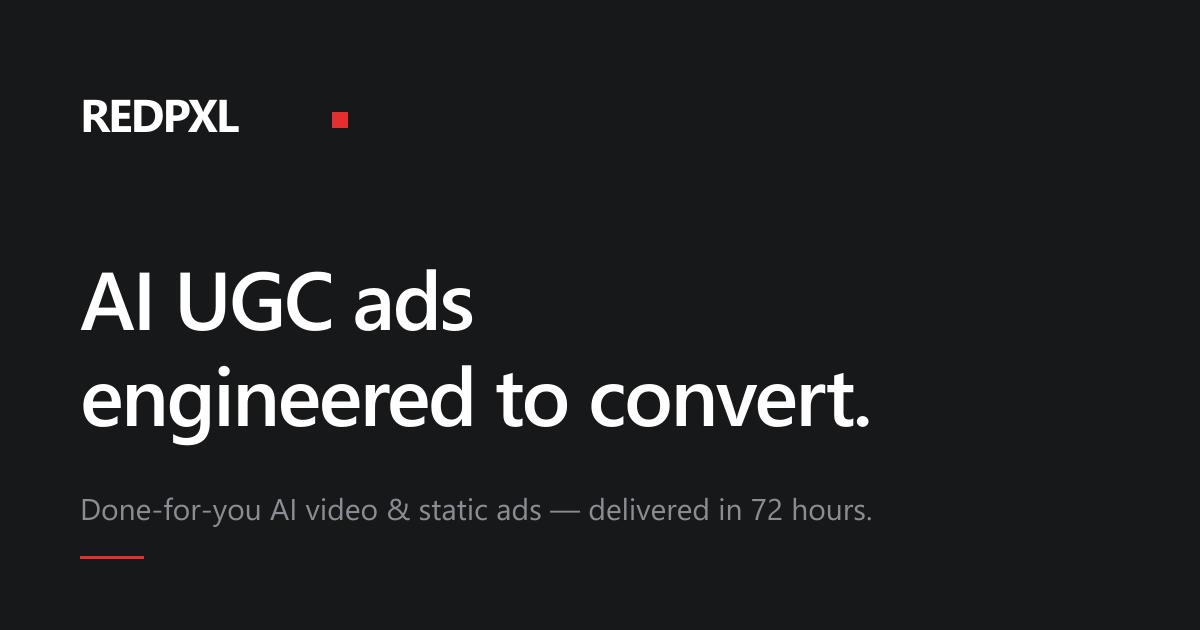
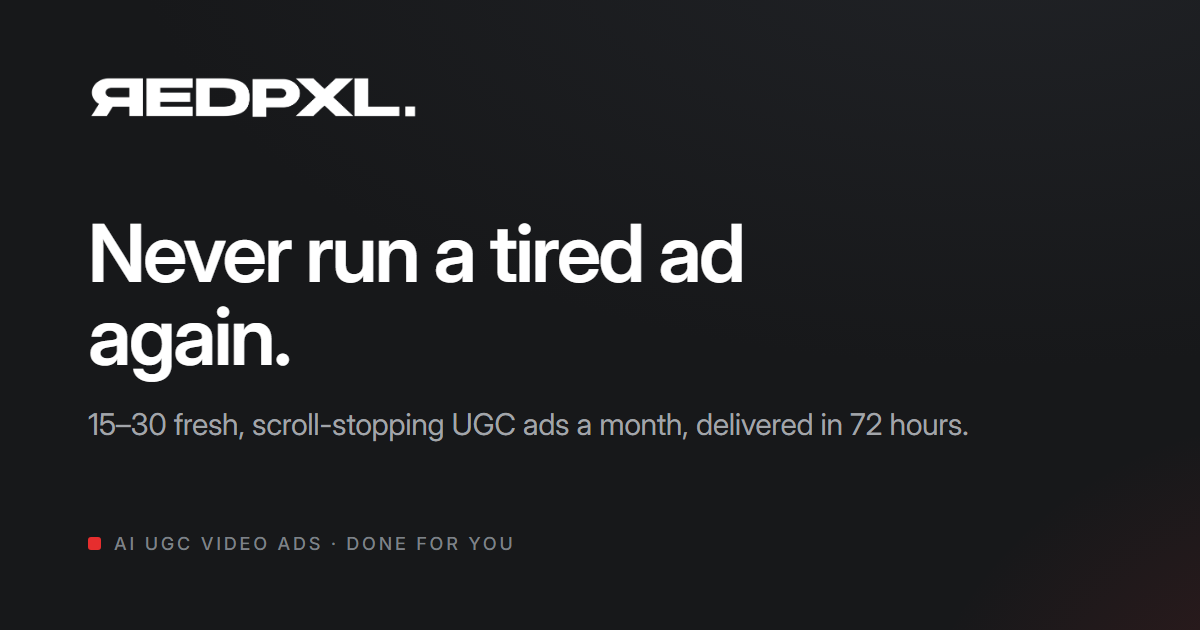
Fix OG/social share image — designed 1200×630, current copy, correct metadata
Replaced the old cropped-screenshot og.png (wrong 'engineered to convert'
headline) with a designed 1200×630 card: dark --ink, real REDPXL wordmark
(white), current hero headline 'Never run a tired ad again.', supporting line
'15–30 fresh, scroll-stopping UGC ads a month, delivered in 72 hours.', and a red
brand accent — big, clean, readable shrunk to a chat thumbnail. Generated with
headless Chromium from a self-contained HTML template (scripts/make-og.mjs, kept
so it can be regenerated) so the real Inter + logo render pixel-perfect.

Metadata (app/layout.tsx): title + og:title + twitter:title → 'REDPXL UGC — AI
UGC ads that convert'; description/og/twitter → the current 72-hours line;
og:site_name → REDPXL; og:image → /og.png?v=2 (1200×630 + alt), removed the old
'engineered to convert' alt. Favicon already set via app/icon.png +
app/apple-icon.png.

NOTE: WhatsApp/iMessage/Slack/FB cache OG images hard. New shares get the new
card (the ?v=2 URL is uncached); already-shared links may show the old preview
until their cache expires — force it via the platform debugger (e.g. Facebook
Sharing Debugger 'Scrape Again') or a fresh ?v=N.

Changed region(s): [[0.0617, 0.3619, 0.8017, 0.7238], [0.0617, 0.7841, 0.7092, 0.9048], [0.0617, 0.1206, 0.37, 0.2111]]

diff --git a/app/layout.tsx b/app/layout.tsx
@@ -19,9 +19,9 @@ const SITE_URL = "https://redpxl.uk";
 
 export const metadata: Metadata = {
   metadataBase: new URL(SITE_URL),
-  title: "REDPXL UGC — AI UGC Video Ads That Convert",
+  title: "REDPXL UGC — AI UGC ads that convert",
   description:
-    "Done-for-you, hyper-realistic AI UGC video and static ads. Scripted with proven direct-response hooks, delivered in 72 hours, ready for TikTok, Meta and YouTube. A Redpxl company, London.",
+    "15–30 fresh, scroll-stopping UGC ads a month, delivered in 72 hours. Done-for-you AI UGC video and static ads for TikTok, Meta and YouTube. A Redpxl company, London.",
   keywords: [
     "AI UGC",
     "UGC video ads",
@@ -35,26 +35,27 @@ export const metadata: Metadata = {
   openGraph: {
     type: "website",
     url: SITE_URL,
-    siteName: "REDPXL UGC",
-    title: "REDPXL UGC — AI UGC Video Ads That Convert",
+    siteName: "REDPXL",
+    title: "REDPXL UGC — AI UGC ads that convert",
     description:
-      "Hyper-realistic AI-generated UGC video and static ads for your brand. Proven direct-response hooks, delivered in 72 hours.",
+      "15–30 fresh, scroll-stopping UGC ads a month, delivered in 72 hours.",
     locale: "en_GB",
     images: [
       {
-        url: "/og.png",
+        // ?v=2 busts the old cached preview on platforms that key by URL
+        url: "/og.png?v=2",
         width: 1200,
         height: 630,
-        alt: "REDPXL UGC — AI UGC ads engineered to convert.",
+        alt: "REDPXL UGC — never run a tired ad again.",
       },
     ],
   },
   twitter: {
     card: "summary_large_image",
-    title: "REDPXL UGC — AI UGC Video Ads That Convert",
+    title: "REDPXL UGC — AI UGC ads that convert",
     description:
-      "Hyper-realistic AI-generated UGC video and static ads for your brand. Delivered in 72 hours.",
-    images: ["/og.png"],
+      "15–30 fresh, scroll-stopping UGC ads a month, delivered in 72 hours.",
+    images: ["/og.png?v=2"],
   },
   robots: { index: true, follow: true },
   // favicon + apple-touch icon are provided by app/icon.png and